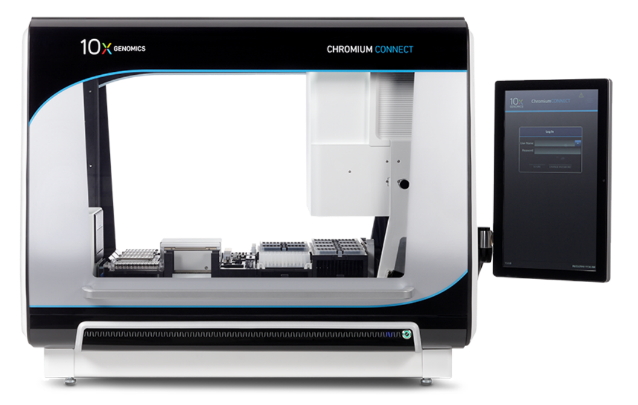
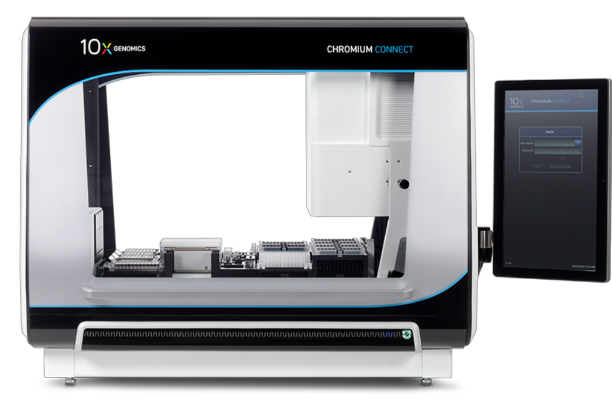
Updates to text

diff --git a/src/app/technologies/spatial-biology/page.js b/src/app/technologies/spatial-biology/page.js
@@ -9,7 +9,7 @@ export default function overview() {
           <div className="col-lg-12">
             <img src="/phenocycler.webp" className="img-fluid rounded-start mt-3 me-3 mb-1" style={{float: "left", maxWidth: "700px", width: "100%"}}/>
             <p className="mt-3">
-            The Akoya Biosciences PhenoCycler-Fusion pairs state-of-the-art, high-speed imaging with automated microfluidics to empower high-resolution/high-dimensional spatial biology and multi-omic analyses of tissue samples and microarrays. By imaging up to 70 fluorescent reporters in a single experiment, the PhenoCycler Fusion system provides researchers with an unprecedented understanding of the 2D/3D spatial organization of single-cells and multiparameter cellular expression and cell-to-cell interactions. By harnessing artificial intelligence to locate, image and analyze tissues, this system enables unbiased quantitative characterization and discovery, maximizing the insights gathered from complete tissue sections/microarrays including: determining co-expression patterns, defining cellular interactions, mapping cellular neighborhoods, building a cell atlas, developing a spatial phenotypic signature, and enabling biomarker discovery and validation.
+            The Akoya Biosciences PhenoCycler-Fusion pairs state-of-the-art, high-speed imaging with automated microfluidics to empower high-resolution/high-dimensional spatial biology and multi-omic analyses of tissue samples and microarrays. By imaging up to 70 fluorescent reporters in a single experiment, the PhenoCycler-Fusion system provides researchers with an unprecedented understanding of the 2D/3D spatial organization of single-cells and multiparameter cellular expression and cell-to-cell interactions. By harnessing artificial intelligence to locate, image and analyze tissues, this system enables unbiased quantitative characterization and discovery, maximizing the insights gathered from complete tissue sections/microarrays including: determining co-expression patterns, defining cellular interactions, mapping cellular neighborhoods, building a cell atlas, developing a spatial phenotypic signature, and enabling biomarker discovery and validation.
             </p>
             <p>
             The PhenoCycler-Fusion contains a microfluidics system and an automated confocal microscope that enables multiplexed, quantitative immunofluorescence of human and mouse tissue slides and tissue microarrays. Choose from ~100 pre-conjugated antibodies to create custom multiplex panels available from Akoya Biosciences. Alternatively, Akoya provides custom conjugation kits, enabling scientists to employ their favourite antibodies. Additionally, the PhenoImager Fusion can be employed as a stand-alone confocal microscope capable of multiplexing up to 7 markers of interest on prelabeled tissue samples (see Specifications). The PhenoImager has a 4-slide carrier capacity with the ability to run independent imaging protocols in each position, enabling high-throughput imaging. Once images are acquired, users can perform image optimization, cell segmentation and in-depth data analyses on three available open-source software applications: PhenoChart, inForm, and QuPath.

diff --git a/src/app/technologies/protein-quantification/page.js b/src/app/technologies/protein-quantification/page.js
@@ -11,7 +11,7 @@ export default function overview() {
           </div>
           <div className="col-lg-6">
             <p>
-            Jess is a comprehensive protein analysis solution that helps researchers save time and improve the accuracy of their results. Specifically, Jess eliminates many of the manual steps of traditional western blotting including sample loading, protein separation, labeling, washing, detection and data analysis, making Jess easy to use and reducing the risk of errors. Jess can analyze a variety of protein samples including, cell lysates, tissue lysates, plasma, serum and other biological fluids (e.g., cerebrospinal fluid). A fundamental advantage to Jess is the low sample volume required to perform detection and analysis, enabling researchers to maximize and extend the utility of precious/limited samples. Proteins of interest are detected with antibodies (user provided) conjugated to a fluorescent or chemiluminescent reporter. All other reagents required for protein detection using Jess are included in the Jess kits that are available through Bio-Techne (see Specifications). Jess automates the detection step using fluorescence or chemiluminescence detection methods and provides fully analyzed quantitative data in ~3 hours, such as protein expression levels, molecular weight and band intensities. These data can be further analyzed and interpreted by importing into compatible software (e.g., ImageJ). Overall, Jess provides a faster and more efficient alternative to traditional western blotting, reducing the risk of errors and improving reproducibility. 
+            Jess is a comprehensive protein analysis solution that helps researchers save time and improve the accuracy of their results. Specifically, Jess eliminates many of the manual steps of traditional western blotting including sample loading, protein separation, labeling, washing, detection and data analysis, making Jess easy to use and reducing the risk of errors. Jess can analyze a variety of protein samples including, cell lysates, tissue lysates, plasma, serum and other biological fluids (<i>e.g.</i>, cerebrospinal fluid). A fundamental advantage to Jess is the low sample volume required to perform detection and analysis, enabling researchers to maximize and extend the utility of precious/limited samples. Proteins of interest are detected with antibodies (user provided) conjugated to a fluorescent or chemiluminescent reporter. All other reagents required for protein detection using Jess are included in the Jess kits that are available through Bio-Techne (see Specifications). Jess automates the detection step using fluorescence or chemiluminescence detection methods and provides fully analyzed quantitative data in ~3 hours, such as protein expression levels, molecular weight and band intensities. These data can be further analyzed and interpreted by importing into compatible software (<i>e.g.</i>, ImageJ, Compass). Overall, Jess provides a faster and more efficient alternative to traditional western blotting, reducing the risk of errors and improving reproducibility. 
             </p>
           </div>
         </div>

diff --git a/src/app/technologies/highthroughput-imaging/in-carta/page.js b/src/app/technologies/highthroughput-imaging/in-carta/page.js
@@ -11,7 +11,7 @@ export default function overview() {
           </div>
           <div className="col-lg-6 mt-3">
             <p>
-            IN Carta Image Analysis Software provides robust, quantitative data from complex biological image datasets. Inherent to the IN Carta software are user-friendly, pre-programmed analytic capabilities for 2D and 3D datasets, batch analysis, and monitoring paired workflows. IN Carta also provides advanced artificial intelligence capabilities to transform images into data that can be easily quantified and interpreted. The Custom Module Editor enables users to define highly customized image analysis protocols, which can be applied during a screening workflow. Additionally, the SINAP deep learning module offers tailored object segmentation and classification in all imaging channels and is adaptable to a myriad of analyses and imaging modalities, including identifying and quantifying objects localized within defined biological compartments (e.g., cell bodies, nuclei or certain cellular structures/organelles). The QuIPS platform features two IN Carta analysis workstations designed to handle the heavy lifting of image analysis, allowing users to focus on their research.
+            IN Carta Image Analysis Software provides robust, quantitative data from complex biological image datasets. Inherent to the IN Carta software are user-friendly, pre-programmed analytic capabilities for 2D and 3D datasets, batch analysis, and monitoring paired workflows. IN Carta also provides advanced artificial intelligence capabilities to transform images into data that can be easily quantified and interpreted. The Custom Module Editor enables users to define highly customized image analysis protocols, which can be applied during a screening workflow. Additionally, the SINAP deep learning module offers tailored object segmentation and classification in all imaging channels and is adaptable to a myriad of analyses and imaging modalities, including identifying and quantifying objects localized within defined biological compartments (<i>e.g.</i>, cell bodies, nuclei or certain cellular structures/organelles). The QuIPS Platform features two IN Carta analysis workstations designed to handle the heavy lifting of image analysis, allowing users to focus on their research.
             </p>
           </div>
         </div>

diff --git a/src/app/technologies/highthroughput-imaging/spectramax/page.js b/src/app/technologies/highthroughput-imaging/spectramax/page.js
@@ -11,7 +11,7 @@ export default function overview() {
           </div>
           <div className="col-lg-6">
             <p>
-            The SpectraMax iD3 Multi-Mode Microplate Reader is a versatile instrument capable of measuring absorbance, fluorescence, and luminescence, making it suitable for various applications in academic, clinical and pharmaceutical research. The four-monochromator optical pathway ensures precise and accurate measurements, while a 20x20 read matrix enables high-throughput screening and analysis of multiple samples simultaneously. The SpectraMax iD3 also offers spectral scanning capabilities, allowing researchers to detect multiple wavelengths simultaneously, enabling deeper insights and more detailed analysis. The external shake feature allows researchers to mix their samples in linear, orbital and double orbital modes with shake intensities tunable to low, medium or high. The SpectraMax iD3 is equipped with a user-friendly touchscreen interface, making it easy to operate, while the SoftMax Pro Software allows for seamless data analysis and interpretation, enhancing the efficiency and productivity of research workflows.
+            The SpectraMax iD3 Multi-Mode Microplate Reader is a versatile instrument capable of measuring absorbance, fluorescence, and luminescence, making it suitable for various applications in academic, clinical and pharmaceutical research (<i>see Specifications</i>). The four-monochromator optical pathway ensures precise and accurate measurements, while a 20x20 read matrix enables high-throughput screening and analysis of multiple samples simultaneously. The SpectraMax iD3 also offers spectral scanning capabilities, allowing researchers to detect multiple wavelengths simultaneously, enabling deeper insights and more detailed analysis. The external shake feature allows researchers to mix their samples in linear, orbital and double orbital modes with shake intensities tunable to low, medium or high. The SpectraMax iD3 is equipped with a user-friendly touchscreen interface, making it easy to operate, while the SoftMax Pro Software allows for seamless data analysis and interpretation, enhancing the efficiency and productivity of research workflows.
             </p>
           </div>
         </div>

diff --git a/src/app/technologies/highthroughput-imaging/image-xpress/page.js b/src/app/technologies/highthroughput-imaging/image-xpress/page.js
@@ -11,7 +11,7 @@ export default function overview() {
           </div>
           <div className="col-lg-6">
             <p>
-            The ImageXpress Confocal HT.ai High-Content Imaging System is a high-throughput and high-content screening instrument (see Figure below) that offers up to 8 imaging channels (see Specifications) and machine learning capabilities to accelerate your research. In addition to widefield microscopy, the ImageXpress Confocal HT.ai High-Content Imaging System enables highly multiplexed assays while maintaining high-throughput imaging by coupling reduced exposure times with faster acquisition of 3D samples. Further, the next-generation dual micro-lens enhanced spinning disk provides a flat field of view for more accurate and reproducible imaging in live cell experiments at the single-cell level. Automated water immersion objectives (20x; 40x; 60x) offer greater numerical apertures and matched refractive indexes between the sample and the immersion media to enhance signal intensity, improve image resolution and minimize image aberrations, empowering scientists to more precisely image thick samples such as organoids or patient-derived xenografts.
+            The ImageXpress Confocal HT.ai High-Content Imaging System is a high-throughput and high-content screening instrument that offers up to 8 imaging channels (<i>see Specifications</i>) and machine learning capabilities to accelerate your research. In addition to widefield microscopy, the ImageXpress Confocal HT.ai enables highly multiplexed assays while maintaining high-throughput imaging by coupling reduced exposure times with faster acquisition of 3D samples. Further, the next-generation dual micro-lens enhanced spinning disk provides a flat field of view for more accurate and reproducible imaging in live cell experiments at the single-cell level. Automated water immersion objectives (20x; 40x; 60x) offer greater numerical apertures and matched refractive indexes between the sample and the immersion media to enhance signal intensity, improve image resolution and minimize image aberrations, empowering scientists to more precisely image thick samples such as organoids or patient-derived xenografts.
            </p>
           </div>
         </div>

diff --git a/src/app/technologies/transcriptomics/page.js b/src/app/technologies/transcriptomics/page.js
@@ -11,7 +11,7 @@ export default function overview() {
           </div>
           <div className="col-lg-6">
             <p>
-              10x Genomics is a life science technology company that provides powerful and reliable tools for analyzing transcriptomic and epigenomic data at single cell resolution. Their integrated solutions include instruments, consumables and software that enable transcriptomic/epigenomic profiling of up to a million single cells with multiomic capabilities to reveal cellular diversity. The instruments function by using barcoded beads and partitioning individual cells into nanoliter-scale Gel Bead-In-Emulsions (GEMs), where each GEM contains a single cell and a unique barcode (see Figure). The resulting libraries are sequenced by end users to generate high-quality data for downstream analysis using a Next Generation Sequencing (NGS) platform. The Chromium instruments are useful in many scientific applications such as dissecting cell-type differences, detecting novel cell subtypes and biomarkers, and defining gene regulatory interactions.
+              10x Genomics is a life science technology company that provides powerful and reliable tools for analyzing transcriptomic and epigenomic data at single cell resolution. Their integrated solutions include instruments, consumables and software that enable transcriptomic/epigenomic profiling of up to a million single cells with multiomic capabilities to reveal cellular diversity. The instruments function by using barcoded beads and partitioning individual cells into nanoliter-scale Gel Bead-In-Emulsions (GEMs), where each GEM contains a single cell and a unique barcode (<i>see Figure</i>). The resulting libraries are sequenced by end users to generate high-quality data for downstream analysis using a Next Generation Sequencing platform. The Chromium instruments are useful in many scientific applications such as dissecting cell-type differences, detecting novel cell subtypes and biomarkers, and defining gene regulatory interactions.
             </p>
           </div>
         </div>

diff --git a/src/app/technologies/fluorescence-activated-cell-sorting/page.js b/src/app/technologies/fluorescence-activated-cell-sorting/page.js
@@ -1,0 +1,25 @@
+import TechnologyHeader from "@/components/TechnologyHeader"
+
+export default function BDFACSMelody() {
+  return (
+    <>
+      <TechnologyHeader title="Fluorescence Activated Cell Sorting" page="overview" technology="fluorescence-activated-cell-sorting"></TechnologyHeader>
+      <div className="container mb-3">
+        <div className="row mt-4">
+          <div className="col-lg-7">
+            <img src="/facs.png" className="img-fluid rounded-start" style={{maxWidth: "55%", float: "left"}}/>
+            <img src="/facs-detail.png" className="img-fluid rounded-start" style={{maxWidth: "45%", float: "left"}}/>
+          </div>
+          <div className="col-lg-5">
+            <p>
+              The BD FACSMelody is a Fluorescence Activated Cell Sorter (FACS) that can sort or enrich specific cell populations based on their fluorescence intensities. Cells are fluorescently labeled either through the expression of fluorescent proteins or through the incorporation of fluorescent labels (antibodies or dyes). The FACSMelody provides temperature control, and is capable of sorting cells into collection tubes or into individual wells of various plate formats, either as single cells or populations of cells. The index sorting capabilities inherent within the FACSMelody enables back tracing of sorted cell(s) to reveal their specific fluorescence intensity(ies). The instrument can assist in many scientific applications, including clone development (<i>e.g.</i>, isolation of CRISPR modified cell lines), characterization of rare cell types (<i>e.g.</i>, blood samples), and enrichment of fluorescently labelled cell populations for downstream applications (<i>e.g.</i>, single cell sequencing). FACS is performed on a fee-for-service basis. Please contact us for more information and to discuss how we can best assist you and your sorting requirements.
+            </p>
+          </div>
+        </div>
+        <div className="row">
+          
+        </div>
+      </div>
+    </>
+  )
+}

diff --git a/src/app/technologies/transcriptomics/specifications/page.js b/src/app/technologies/transcriptomics/specifications/page.js
@@ -15,9 +15,9 @@ export default function specifications() {
           </div>
           <div className="col-md-6 text-center">
             <h6><strong>Chromium Connect</strong></h6>
-            <img src="/ChromiumConnect.png" className="img-fluid rounded-start" style={{width: "80%"}}></img>
+            <img src="/ChromiumConnect.png" className="img-fluid rounded-start" style={{width: "81%"}}></img>
             <p>
-            The Chromium Connect is a fully automated system with walk-away convenience and performs single-cell gene expression and immune profiling workflows with ease. It offers automated library construction starting from cDNA (manually generated through Chromium X) using a modular workflow. Thus, the Connect maximizes productivity and throughput, while ensuring consistent and reproducible results.  
+            The Chromium Connect is a fully automated system with walk-away convenience that performs single-cell gene expression and immune profiling workflows with ease. It offers automated library construction starting from cDNA (manually generated through Chromium X) using a modular workflow. Thus, the Connect maximizes productivity and throughput, while ensuring consistent and reproducible results.  
             </p>
           </div>
         </div>

diff --git a/src/app/technologies/transcriptomics/pricing/page.js b/src/app/technologies/transcriptomics/pricing/page.js
@@ -114,7 +114,7 @@ export default function pricing() {
             </tr>
           </tbody>
         </table>
-        <p className="mt-3 mb-3">The prices include the cost to cover platform-provided-consumables and to cover technician time. It is important to note that the prices do not cover 10x Genomics reagent kits which required to be purchased separately by users. Additional charges may apply due to special circumstances that may arise during the experiment.</p>
+        <p className="mt-3 mb-3">Prices include the cost to cover platform-provided-consumables and to cover technician time. It is important to note that the prices do not cover 10x Genomics reagent kits which are required to be purchased separately by users. Additional charges may apply due to special circumstances that may arise during the experiment.</p>
         <p className="mt-0 mb-3">We can provide you with a customized quote based on the number of samples and the type of assay you will perform. </p>
         <p className="mt-3 mb-0" style={{fontSize: "14px"}}><sup>1</sup>Paul Albrechtsen Research Institute CancerCare Manitoba</p>
         <p className="mt-0 mb-0" style={{fontSize: "14px"}}><sup>2</sup>Beginning 30 mins after start of scheduled appointment</p>

diff --git a/src/app/technologies/fluorescence-activated-cell-sorting/specifications/page.js b/src/app/technologies/fluorescence-activated-cell-sorting/specifications/page.js
@@ -3,7 +3,7 @@ import TechnologyHeader from "@/components/TechnologyHeader"
 export default function specifications() {
   return (
     <>
-      <TechnologyHeader title="Fluorescent Activated Cell Sorting" page="specifications" technology="fluorescent-activated-cell-sorting"></TechnologyHeader>
+      <TechnologyHeader title="Fluorescence Activated Cell Sorting" page="specifications" technology="fluorescence-activated-cell-sorting"></TechnologyHeader>
       <div className="container">
         <table className="mt-4 table table-bordered table-responsive">
           <thead>
@@ -54,8 +54,8 @@ export default function specifications() {
         <h6 className="mt-3"><strong>Collection:</strong></h6>
         <ul>
           <li>4-way sorting: 1.5-, 2.0-, and 5.0-mL tubes</li>
-          <li>2-way sorting: 1.5-, 2.0- and 5.0-mL tubes</li>
-          <li>1-way sorting: 6, 24, 48, 96 and 384-well plates, 96-well PCR, microscope slides</li>
+          <li>2-way sorting: 1.5-, 2.0-, and 5.0-mL tubes</li>
+          <li>1-way sorting: 6-, 24-, 48-, 96- and 384-well plates, 96-well PCR, microscope slides</li>
         </ul>
         <h6 className="mt-3"><strong>Temperature control:</strong></h6>
         <ul>

diff --git a/src/app/technologies/fluorescence-activated-cell-sorting/pricing/page.js b/src/app/technologies/fluorescence-activated-cell-sorting/pricing/page.js
@@ -3,12 +3,12 @@ import TechnologyHeader from "@/components/TechnologyHeader"
 export default function pricing() {
   return (
     <>
-      <TechnologyHeader title="Fluorescence Activated Cell Sorting" page="pricing" technology="fluorescent-activated-cell-sorting"></TechnologyHeader>
+      <TechnologyHeader title="Fluorescence Activated Cell Sorting" page="pricing" technology="fluorescence-activated-cell-sorting"></TechnologyHeader>
       <div className="container">
       <table align="center" className="mt-4 table table-responsive">
           <thead>
             <tr>
-              <th><strong>Fee-for-service</strong></th>
+              <th>Fee-for-service</th>
               <th>First 40 hours</th>
               <th>After 40 hours</th>
             </tr>

diff --git a/src/app/technologies/page.js b/src/app/technologies/page.js
@@ -12,7 +12,7 @@ export default function members() {
               subTitle="BD FACSMelody"
               subTitle2=" "
               image="/facs.png"
-              url="/technologies/fluorescent-activated-cell-sorting"
+              url="/technologies/fluorescence-activated-cell-sorting"
             >
             </TechnologyCard>
           </div>
